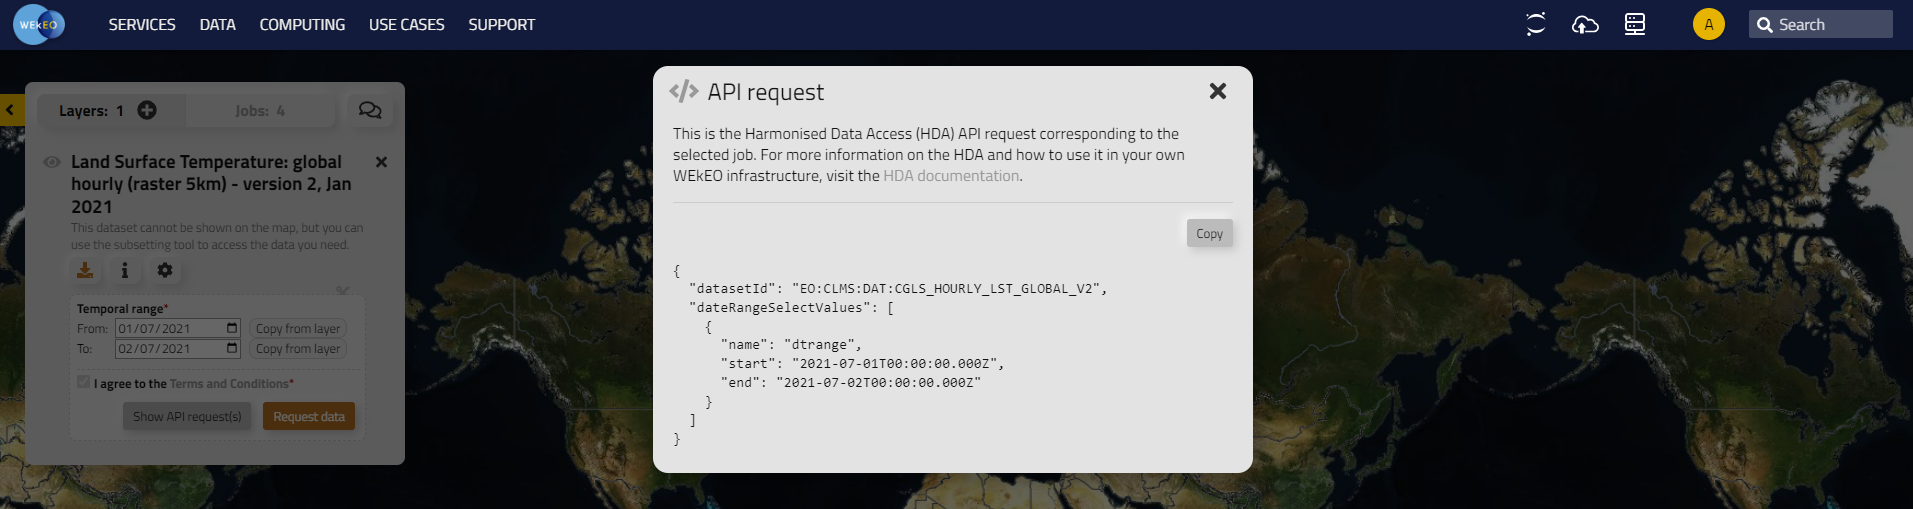
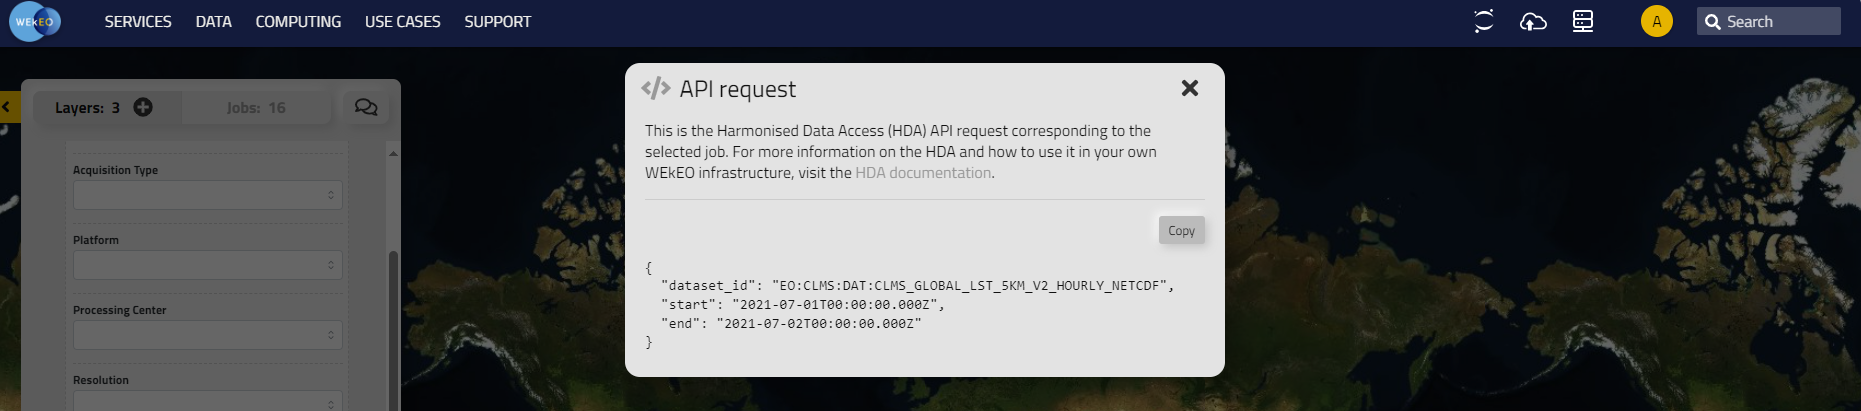
updates to documentation

Changed region(s): [[0.0, 0.0, 1.0, 1.0]]

diff --git a/docs/source/usage.rst b/docs/source/usage.rst
@@ -17,15 +17,15 @@ The minimum required argument for the function ``load_dataset`` is the dataset i
 
 The CliMetLab dataset id can be derived from the dataset id inside the WEkEO viewer. For example:
 
-- WEkEO dataset id: ``EO:CLMS:DAT:CGLS_HOURLY_LST_GLOBAL_V2``
-- CliMetLab dataset id: ``wekeo-clms-cgls-hourly-lst-global-v2``
+- WEkEO dataset id: ``EO:CLMS:DAT:CLMS_GLOBAL_LST_5KM_V2_HOURLY_NETCDF``
+- CliMetLab dataset id: ``wekeo-clms-clms-global-lst-5km-v1-hourly-netcdf``
 
 .. code-block:: python
 
     import climetlab as cml
 
     ds = cml.load_dataset(
-        "wekeo-clms-cgls-hourly-lst-global-v2"
+        "wekeo-clms-clms-global-lst-5km-v1-hourly-netcdf"
     )
 
 
@@ -47,15 +47,10 @@ The WEkEO CliMetLab Plugin offers a translation function which translates the WE
     from climetlab_wekeo_datasets import hda2cml
 
     api_request = {
-    "datasetId": "EO:CLMS:DAT:CGLS_HOURLY_LST_GLOBAL_V2",
-    "dateRangeSelectValues": [
-            {
-            "name": "dtrange",
-            "start": "2021-07-01T00:00:00.000Z",
-            "end": "2021-07-02T00:00:00.000Z"
-            }
-        ]
-    }
+        "dataset_id": "EO:CLMS:DAT:CLMS_GLOBAL_LST_5KM_V2_HOURLY_NETCDF",
+        "start": "2021-07-01T00:00:00.000Z",
+        "end": "2021-07-02T00:00:00.000Z"
+        }
 
     ds_id, args = hda2cml(api_request) 
 
@@ -83,7 +78,7 @@ Now, a CliMetLab query for WEkEO data can be created:
     import climetlab as cml
 
     ds = cml.load_dataset(
-        "wekeo-clms-cgls-hourly-lst-global-v2",
+        "wekeo-clms-clms-global-lst-5km-v1-hourly-netcdf",
         start="2021-07-01T00:00:00Z",
         end="2021-07-01T23:59:59Z",
     )
@@ -101,7 +96,7 @@ This query triggers the download of a subset of a single dataset.
     import climetlab as cml
 
     ds = cml.load_dataset(
-        "wekeo-clms-cgls-hourly-lst-global-v2",
+        "wekeo-clms-clms-global-lst-5km-v1-hourly-netcdf",
         start="2021-07-01T00:00:00Z",
         end="2021-07-01T23:59:59Z",
     )
@@ -150,7 +145,7 @@ If we want to compare the LST of 2021-07-01 with the LST of the previous year, i
     import matplotlib.pyplot as plt
 
     ds_v1 = cml.load_dataset(
-        "wekeo-clms-cgls-hourly-lst-global-v1",
+        "wekeo-clms-clms-global-lst-5km-v1-hourly-netcdf",
         start="2020-07-01T00:00:00Z",
         end="2020-07-01T23:59:59Z",
     )
@@ -210,24 +205,49 @@ This raises the error:
 
 The original exception reveals that the datasets have identical variable names, which is why they cannot be merged to a single xarray.
 
-The single datasets downloaded by CliMetLab can be accessed by ``ds.source.sources``. In a loop each dataset can be converted to xarray separetely.
+A workaroud is to access the two variables separately using the climetlab, rename the variable names accordingly and merge them afterwards. 
 
 .. code-block:: python
 
-    import xarray as xr
-    datasets = [xr.open_dataset(s) for s in cmlds.source.sources]
+    dscml_temp=cml.load_dataset(
+    "wekeo-ecmwf-sis-water-hydrological-change",
+    variable=[
+        "air_temperature"],
+    time_aggregation=["autumn", "spring"],
+    format_="zip",
+    gcm_model="esm_chem",
+    statistic="change_in_the_annual_mean",
+    experiment="rcp_8_5",
+    hydrological_model="pcr_globwb")
 
-The datasets can be merged after manually changing theit variable names using xarray.
+    ds_temp = dscml_temp.to_xarray()
 
 .. code-block:: python
 
-    datasets[0] = datasets[0].rename({"relative_change": "prec_relative_change"})
-    datasets[0] = datasets[0].rename({"ref_var_threshold": "prec_ref_var_threshold"})[['prec_relative_change', 'prec_ref_var_threshold']]
+    dscml_prec=cml.load_dataset(
+    "wekeo-ecmwf-sis-water-hydrological-change",
+    variable=[
+        "precipitation"],
+    time_aggregation=["autumn", "spring"],
+    format_="zip",
+    gcm_model="esm_chem",
+    statistic="change_in_the_annual_mean",
+    experiment="rcp_8_5",
+    hydrological_model="pcr_globwb")
 
-    datasets[1] = datasets[1].rename({"absolute_change": "temp_absolute_change"})
-    datasets[1] = datasets[1].rename({"ref_var_threshold": "temp_ref_var_threshold"})[['temp_absolute_change', 'temp_ref_var_threshold']]
+    ds_prec = dscml_prec.to_xarray()
 
-    xarr = xr.merge(datasets)
+The datasets can be merged after manually changing their variable names using xarray.
+
+.. code-block:: python
+
+    ds_prec = ds_prec.rename({"relative_change": "prec_relative_change"})
+    ds_prec = ds_prec.rename({"ref_var_threshold": "prec_ref_var_threshold"})[['prec_relative_change', 'prec_ref_var_threshold']]
+
+    ds_temp = ds_temp.rename({"absolute_change": "temp_absolute_change"})
+    ds_temp = ds_temp.rename({"ref_var_threshold": "temp_ref_var_threshold"})[['temp_absolute_change', 'temp_ref_var_threshold']]
+
+    xarr = xr.merge([ds_prec, ds_temp])
 
 Caching and Storage of CliMetLab datasets
 -----------------------------------------
@@ -300,7 +320,7 @@ The first entry of the time series shows the sea surface temperature observation
 
 
 
-The observation data is merges with a second dataset - the sea surface temperature anomalies in the same time period. This creates a single xarray with two variables. 
+The observation data is merged with a second dataset - the sea surface temperature anomalies in the same time period. This creates a single xarray with two variables. 
 
 .. code-block:: python
 
@@ -383,7 +403,7 @@ For example, the diurnal cycle of temperature averaged across Germany can be ext
 .. image:: ../images/plot-temp-daily-cycle.png
     :width: 400
 
-It is possible to do arithmtic operations of the differnt time steps of the dataset. Next, the temperature difference between 00:00 UTM and 12:00 UTM is shown across the globe. 
+It is possible to do arithmtic operations of the different time steps of the dataset. Next, the temperature difference between 00:00 UTM and 12:00 UTM is shown across the globe. 
 The temperature difference is inverted with the changing day and night cycle across the globe. 
 
 

diff --git a/docs/source/quickstart.rst b/docs/source/quickstart.rst
@@ -13,13 +13,13 @@ Once the plugin is installed, it can be used directly into a Jupyter notebook.
     client = Client()
 
     cmlds = cml.load_dataset(
-        "wekeo-clms-cgls-hourly-lst-global-v2",
-        start="2021-01-18",
-        end="2021-01-19",
-    )
+    "wekeo-eum-metop-glb-sst-nc",
+    dtstart="2021-01-18",
+    dtend="2021-01-19",
+)
 
     ds = cmlds.to_xarray()
-    ds.LST.plot(x="lon", y="lat")
+    ds.sea_surface_temperature.isel(time=0).plot()
 
     client.shutdown()
 
@@ -46,41 +46,18 @@ Once the request is copied into the clipboard, you can use it following the exam
     import climetlab as cml
     from climetlab_wekeo_datasets import hda2cml
 
+    # Instantiate a default Dask distributed client to handle data
+    client = Client()
+
     query = {
-        "datasetId": "EO:ECMWF:DAT:CAMS_EUROPE_AIR_QUALITY_FORECASTS",
-        "boundingBoxValues": [
-            {
-            "name": "area",
-            "bbox": [
-                3.694591996044645,
-                35.907220595373886,
-                14.939002418789217,
-                42.61449357770201
-            ]}
-        ],
-        "dateRangeSelectValues": [
-            {
-                "name": "date",
-                "start": "2023-08-25T00:00:00.000Z",
-                "end": "2023-10-31T23:59:59.999Z"
-            }
-        ],
-        "multiStringSelectValues": [
-            {
-            "name": "variable",
-            "value": [
-                "alder_pollen",
-                "ammonia"
-            ]},
-            ...
-        ],
-        "stringChoiceValues": [
-            {
-                "name": "format",
-                "value": "netcdf"
-            }
-        ]
+    "dataset_id": "EO:EUM:DAT:METOP:GLB-SST-NC",
+    "dtstart": "2021-01-18T00:00:00.000Z",
+    "dtend": "2021-01-19T00:00:00.000Z",
+    "sat": "Metop-B",
+    "type": "OSSTGLBN"
     }
 
     entry_point, arguments = hda2cml(query)
-    dataset = cml.load_dataset(entry_point, **arguments)
+    cmlds = cml.load_dataset(entry_point, **arguments)
+
+    ds = cmlds.to_xarray()
